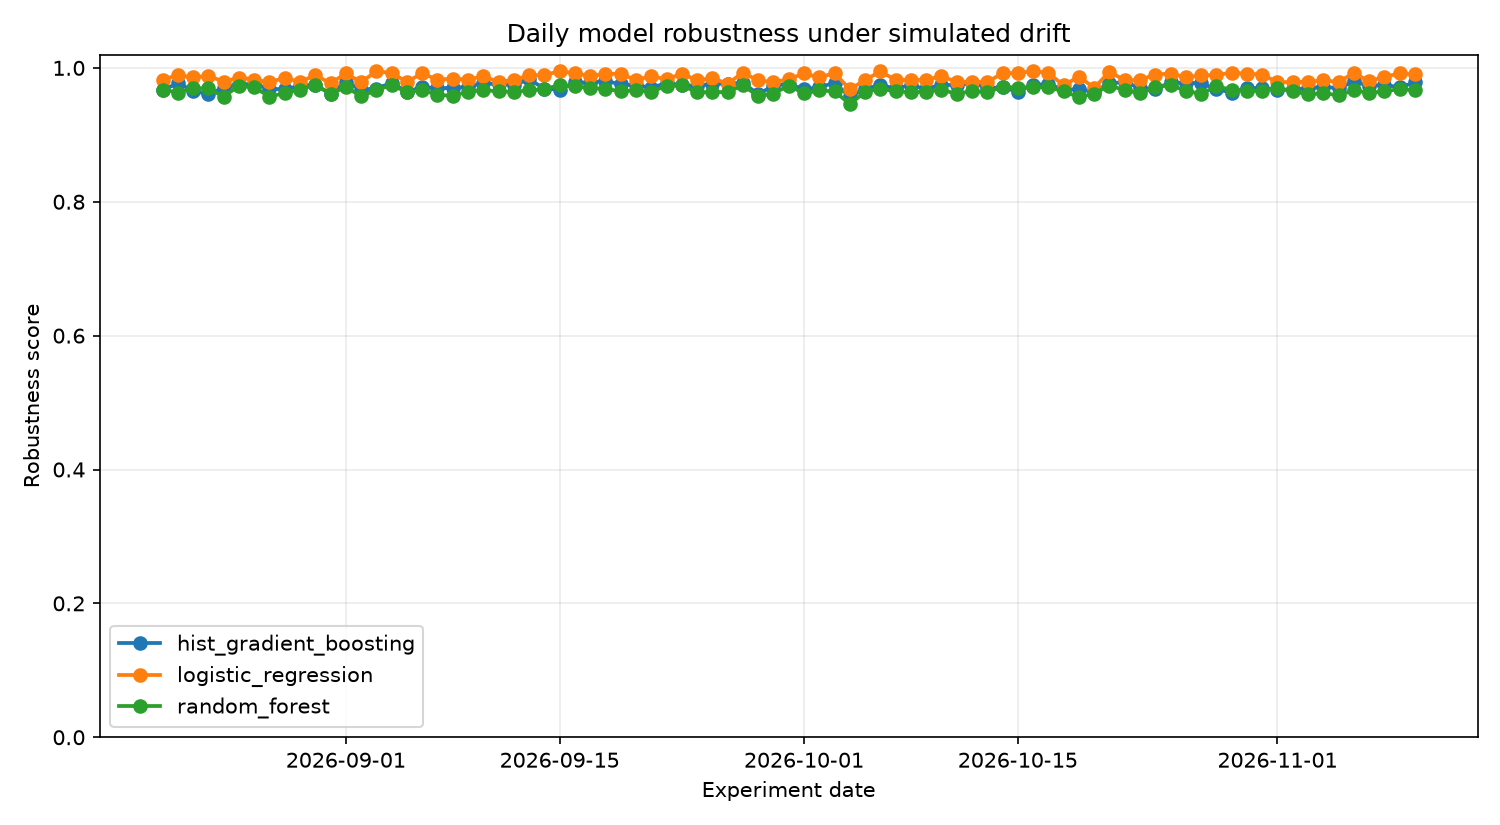
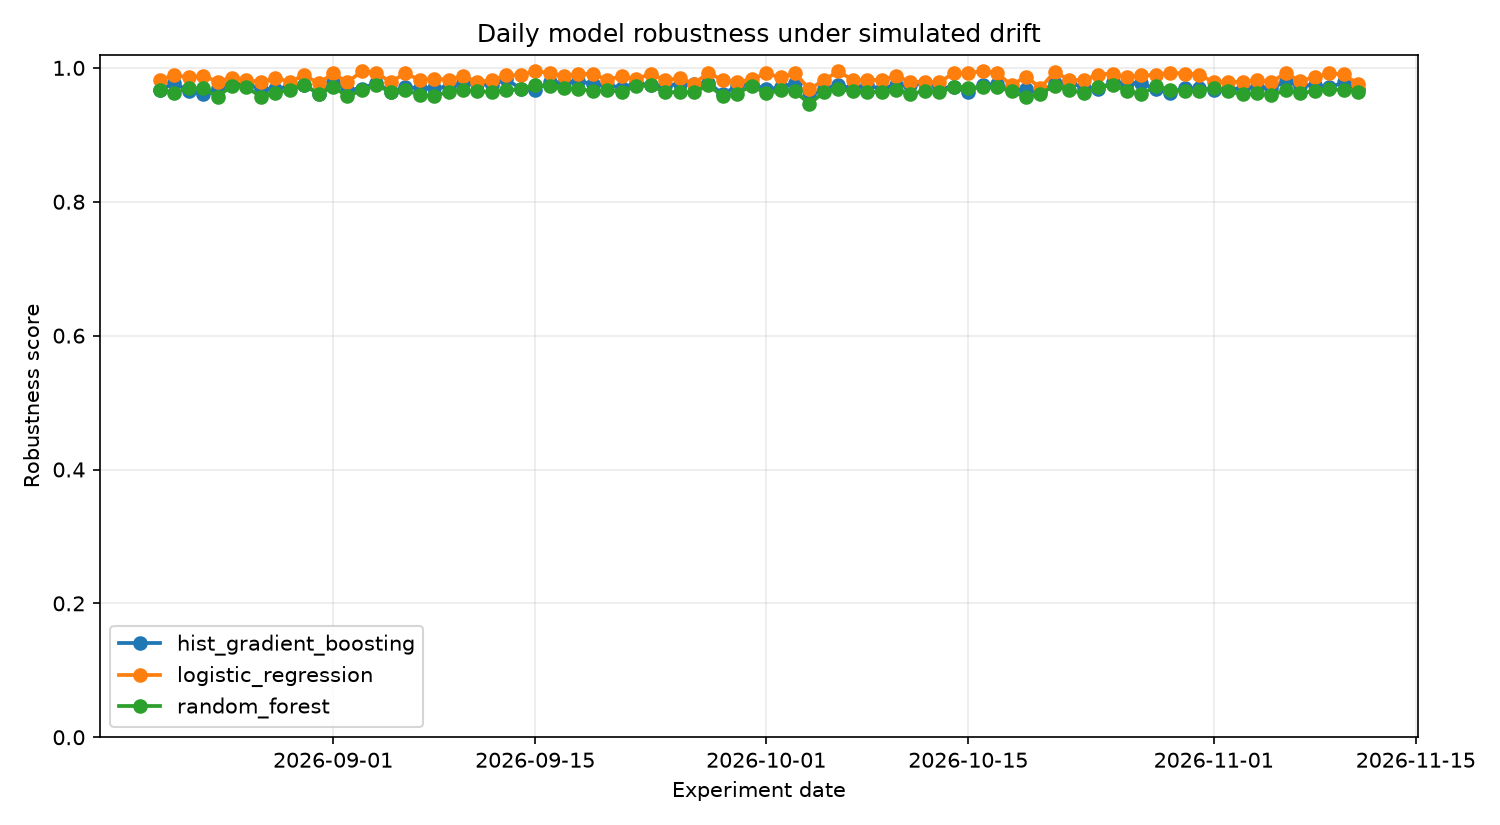
chore(observatory): daily drift benchmark 2026-11-11

diff --git a/reports/latest.md b/reports/latest.md
@@ -1,37 +1,37 @@
 # Latest DriftWatch Report
 
-**Experiment date:** 2026-11-10
+**Experiment date:** 2026-11-11
 
 ## Drift scenario
 
-- Drift strength: `0.268`
-- Scale factor: `0.973`
-- Noise ratio: `0.057`
-- Mask ratio: `0.014`
-- Affected features: mean smoothness, mean compactness, perimeter error, area error, smoothness error, worst symmetry
+- Drift strength: `0.241`
+- Scale factor: `1.024`
+- Noise ratio: `0.054`
+- Mask ratio: `0.013`
+- Affected features: area error, worst texture, worst perimeter, worst area, worst compactness, worst concavity
 
 ## Model ranking
 
 | Rank | Model | Robustness | ROC-AUC | F1 | Balanced Acc. | Log Loss | Brier |
 |---:|---|---:|---:|---:|---:|---:|---:|
-| 1 | `logistic_regression` | 0.9902 | 0.9988 | 0.9859 | 0.9828 | 0.0645 | 0.0167 |
-| 2 | `hist_gradient_boosting` | 0.9782 | 0.9909 | 0.9772 | 0.9609 | 0.1382 | 0.0351 |
-| 3 | `random_forest` | 0.9665 | 0.9921 | 0.9533 | 0.9376 | 0.1297 | 0.0380 |
+| 1 | `logistic_regression` | 0.9761 | 0.9974 | 0.9615 | 0.9595 | 0.1054 | 0.0319 |
+| 2 | `hist_gradient_boosting` | 0.9681 | 0.9927 | 0.9515 | 0.9501 | 0.1310 | 0.0444 |
+| 3 | `random_forest` | 0.9642 | 0.9908 | 0.9469 | 0.9423 | 0.1577 | 0.0463 |
 
 ## Highest feature drift (PSI)
 
 | Feature | PSI |
 |---|---:|
-| area error | 0.4059 |
-| perimeter error | 0.2579 |
-| worst symmetry | 0.2008 |
-| texture error | 0.1767 |
-| worst concavity | 0.1332 |
-| worst fractal dimension | 0.1215 |
-| mean texture | 0.1197 |
-| radius error | 0.1040 |
+| area error | 0.4047 |
+| worst concavity | 0.3117 |
+| worst area | 0.2286 |
+| texture error | 0.1958 |
+| worst compactness | 0.1634 |
+| mean concave points | 0.1530 |
+| mean concavity | 0.1252 |
+| fractal dimension error | 0.1124 |
 
-**Mean PSI:** `0.0929`  
-**Max PSI:** `0.4059`
+**Mean PSI:** `0.1074`  
+**Max PSI:** `0.4047`
 
 _Generated automatically by the DriftWatch daily observatory pipeline._
